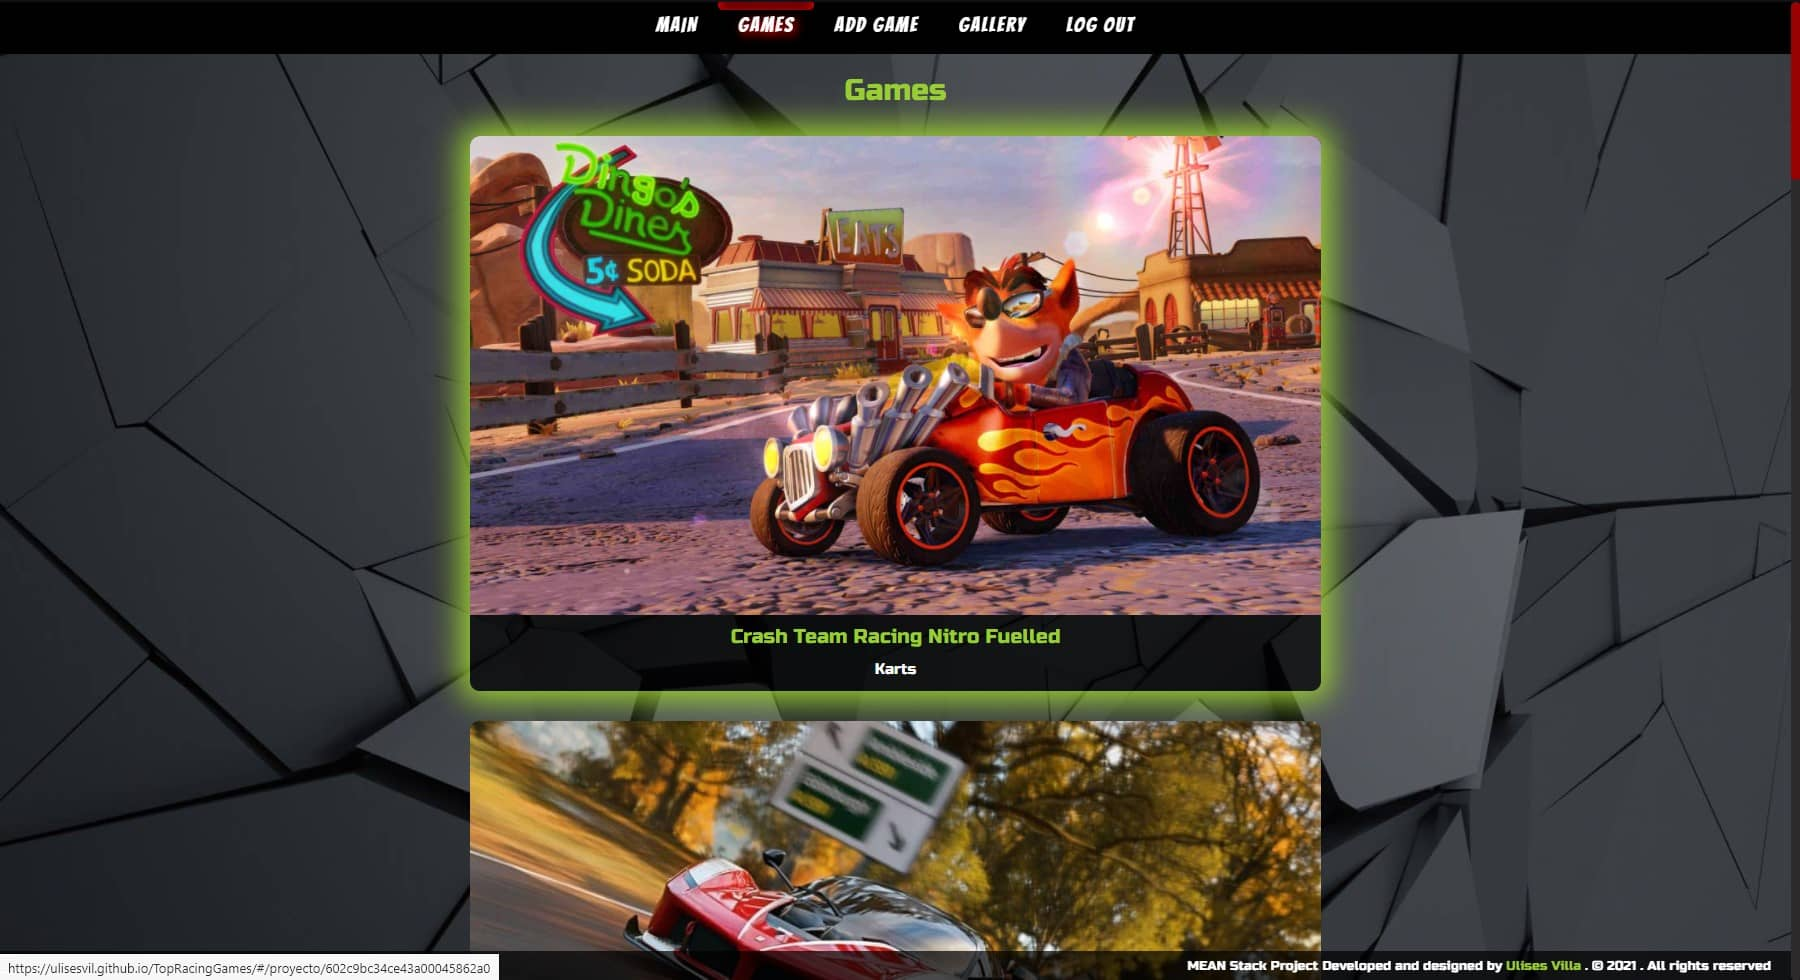
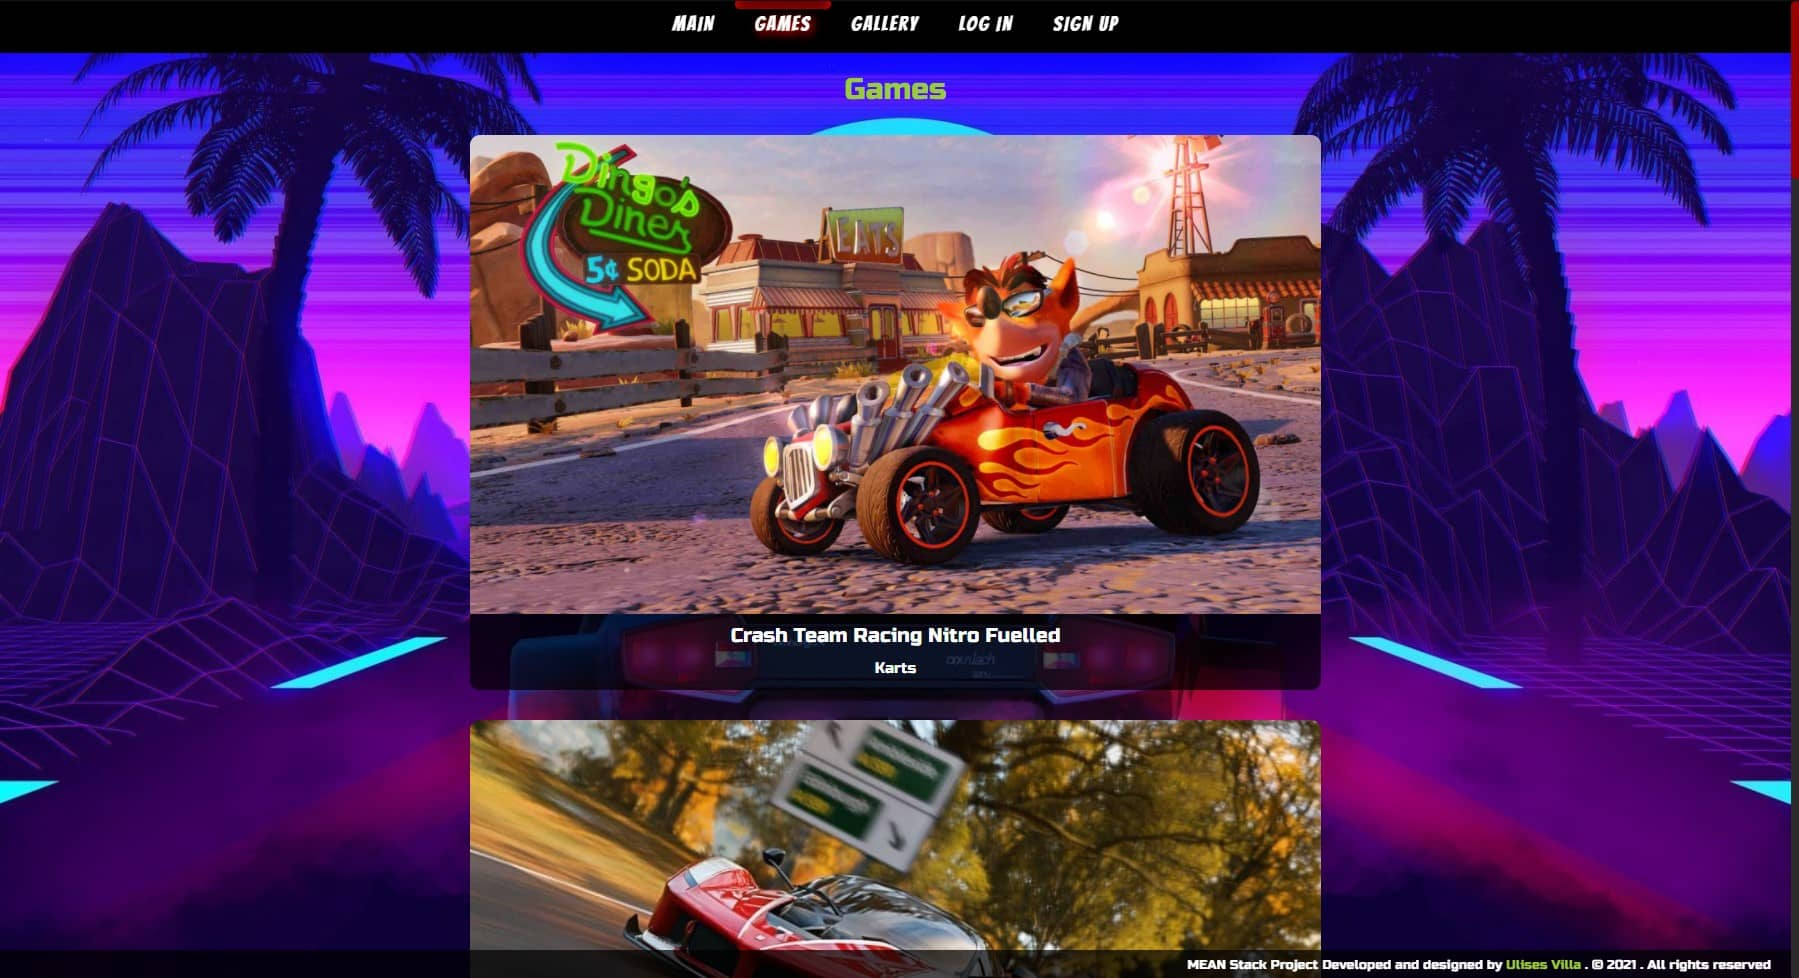
Optimized Thumbnails

diff --git a/src/app/components/main/main.component.css b/src/app/components/main/main.component.css
@@ -52,11 +52,11 @@ h1{
   /*border: 1px solid red;*/
   z-index: 1;
 
-  text-shadow: 3px 3px 5px rgb(148, 148, 148);
-  color: yellowgreen;
-  background: rgba(0,0,0,.7);
+  /*text-shadow: 3px 3px 5px rgb(255, 255, 255);*/
+  color: rgb(255, 255, 255);
+  /*background: rgba(0,0,0,.7);
   padding: 0px 30px;
-  border-radius: 5px;
+  border-radius: 5px;*/
 }
 
 h2{
@@ -70,8 +70,8 @@ h2{
   font-size: 2rem;
   font-family: Bilbo;
   letter-spacing: 3px;
-  text-shadow: 3px 3px 5px rgb(148, 148, 148);
-  color: yellowgreen;
+  /*text-shadow: 3px 3px 5px rgb(148, 148, 148);*/
+  color: rgb(255, 255, 255);
   background: rgba(0,0,0,.7);
   padding: 0px 30px;
   border-radius: 5px;
